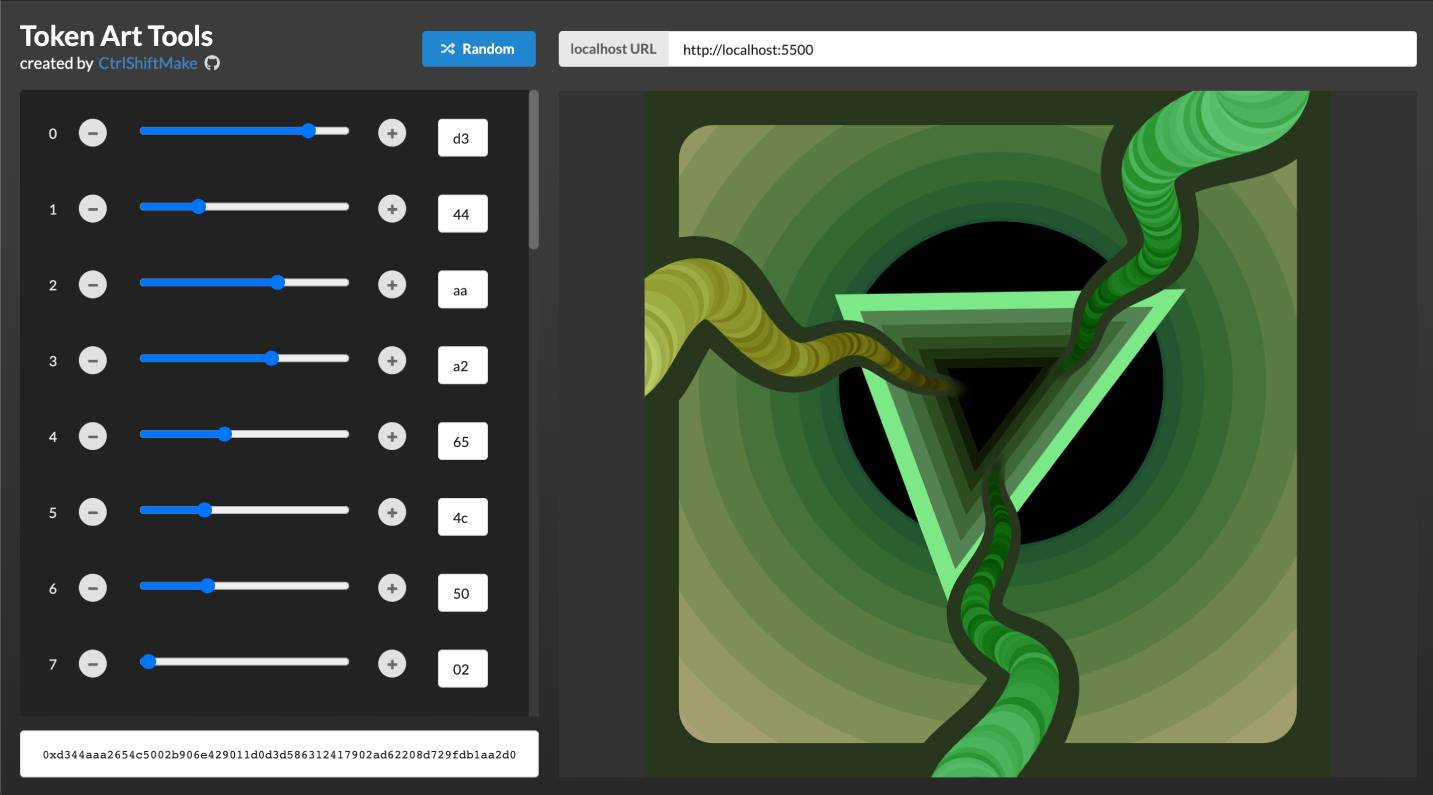
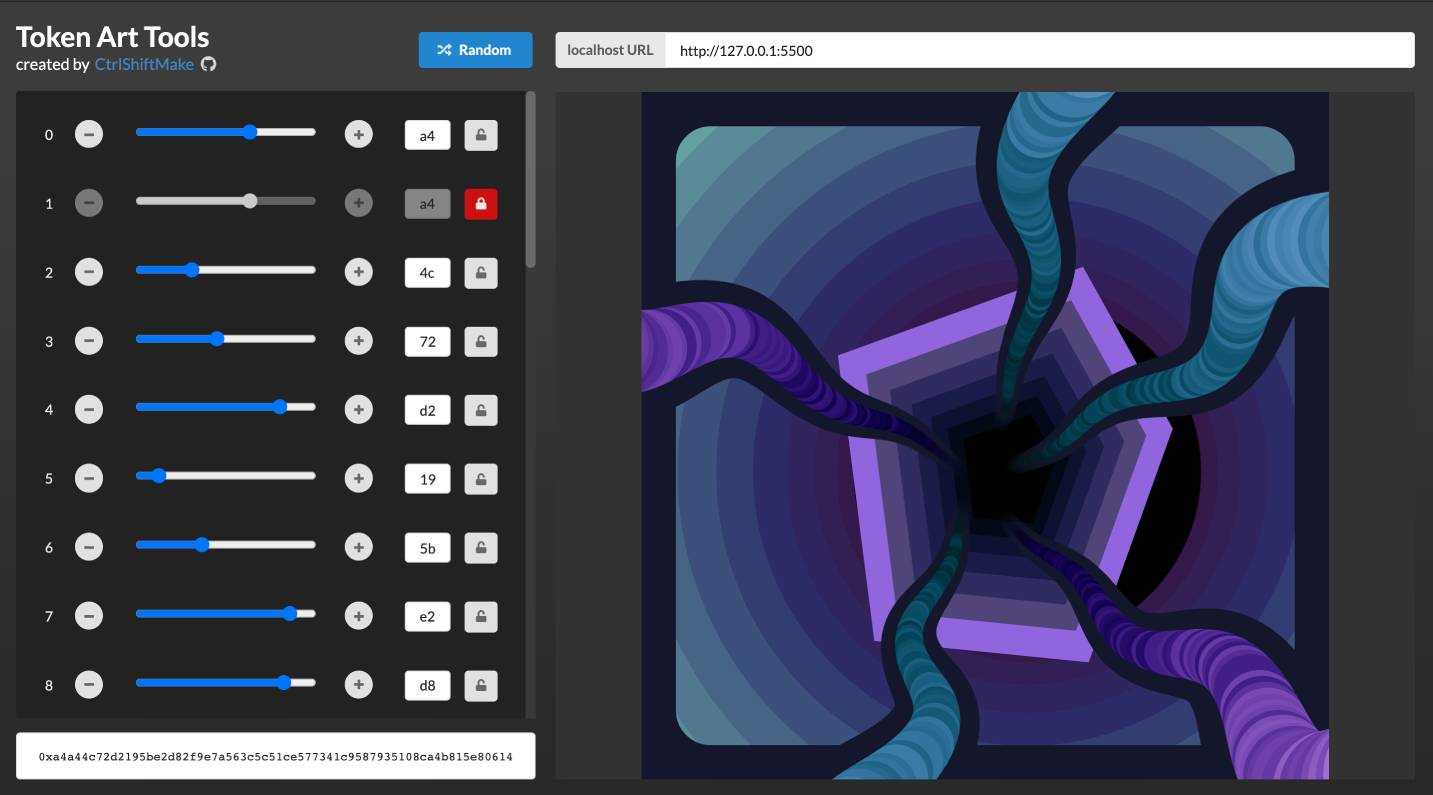
hashpair lock / unlock

diff --git a/src/components/hashpair-slider.component.js b/src/components/hashpair-slider.component.js
@@ -7,6 +7,7 @@ import { ValueToHexPair, RandomInt } from "../helpers/token.helpers";
 const HashPairSlider = (props) => {
     const [hex, setHex] = useState("");
     const [value, setValue] = useState(0);
+    const [locked, setLocked] = useState(false);
 
     const { index, update, randomHash } = props;
 
@@ -15,7 +16,7 @@ const HashPairSlider = (props) => {
     }, []);
 
     useEffect(() => {
-        if (randomHash) {
+        if (randomHash && !locked) {
             const r = RandomInt(255);
             updateValue(r);
         }
@@ -58,9 +59,10 @@ const HashPairSlider = (props) => {
                         onClick={() => {
                             stepValue(-8);
                         }}
+                        disabled={locked}
                     />
                 </Grid.Column>
-                <Grid.Column width={8}>
+                <Grid.Column width={7}>
                     <span style={{ top: 4, position: "relative" }}>
                         <RangeStepInput
                             min={0}
@@ -69,6 +71,7 @@ const HashPairSlider = (props) => {
                             onChange={handleChange}
                             value={value}
                             style={{ width: "100%" }}
+                            disabled={locked}
                         />
                     </span>
                 </Grid.Column>
@@ -80,10 +83,28 @@ const HashPairSlider = (props) => {
                         onClick={() => {
                             stepValue(8);
                         }}
+                        disabled={locked}
                     />
                 </Grid.Column>
-                <Grid.Column width={3}>
-                    <Input fluid maxLength="2" style={{ width: 50 }} value={hex} readOnly={true} />
+                <Grid.Column width={2}>
+                    <Input
+                        fluid
+                        maxLength="2"
+                        style={{ width: 46, height: 30 }}
+                        value={hex}
+                        readOnly={true}
+                        disabled={locked}
+                    />
+                </Grid.Column>
+                <Grid.Column width={2}>
+                    <Button
+                        size="tiny"
+                        icon={locked ? "lock" : "unlock"}
+                        onClick={() => {
+                            setLocked(!locked);
+                        }}
+                        color={locked ? "red" : null}
+                    />
                 </Grid.Column>
             </Grid>
         </Segment>

diff --git a/src/components/usage.component.js b/src/components/usage.component.js
@@ -1,5 +1,5 @@
 import React from "react";
-import { Segment, Header, Icon, Message, Input } from "semantic-ui-react";
+import { Segment, Header, Icon, Input } from "semantic-ui-react";
 
 const Usage = () => {
     const script =
